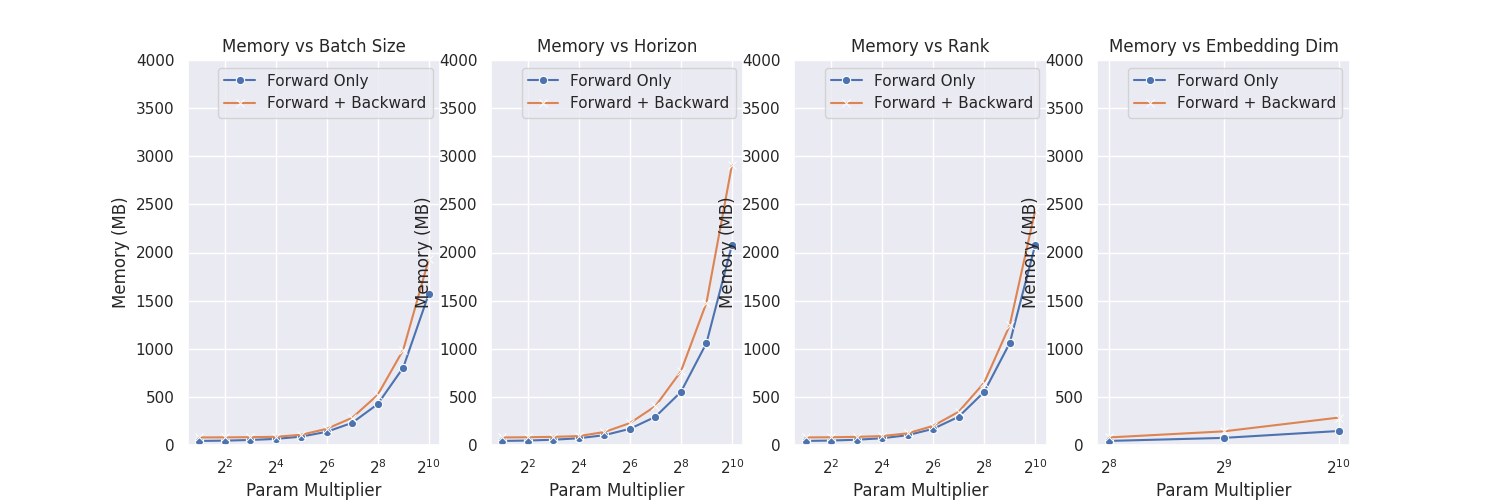
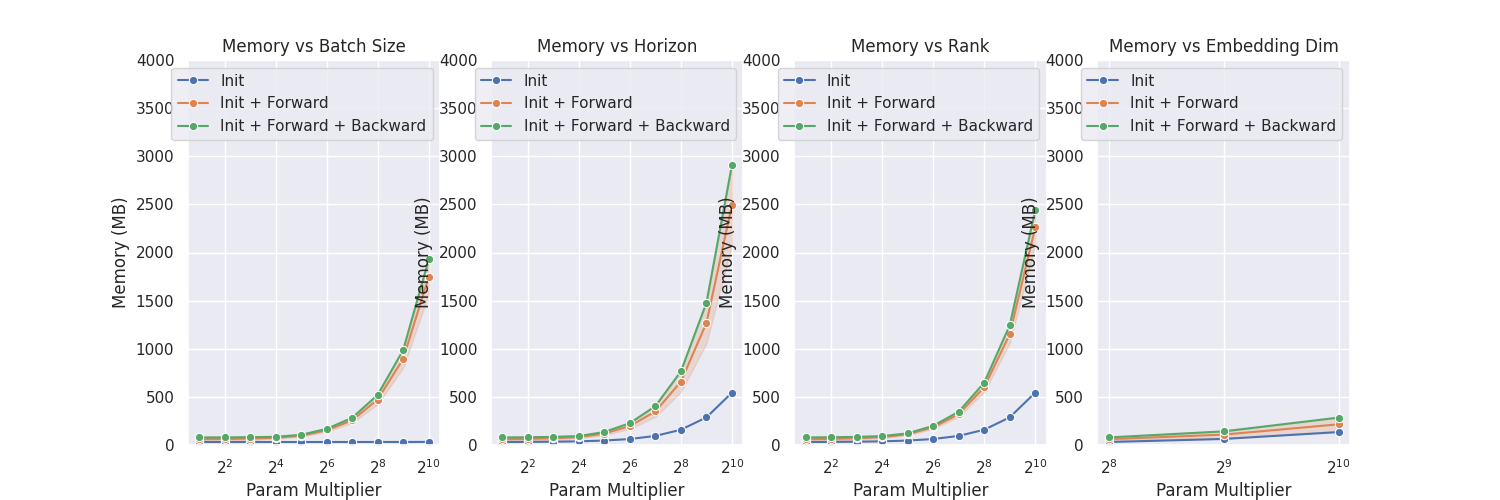
Updat mem plot

diff --git a/scripts/plot_mhead_memory.py b/scripts/plot_mhead_memory.py
@@ -1,12 +1,13 @@
 #!/usr/bin/env python3
 """Simple memory usage comparison for CP tensor functions."""
 
-import argparse
-import os
+from tqdm import tqdm
+
+import torch
 import pandas as pd
 import matplotlib.pyplot as plt
 import seaborn as sns
-import torch
+
 from tjdnet.distributions._base import BaseDistConfig
 from tjdnet.distributions.cp import CPDist
 from utils.perf import get_peak_memory_usage
@@ -22,6 +23,7 @@ def forward_pass(
     device: str = "cuda" if torch.cuda.is_available() else "cpu",
     embedding_dim=256,
     vocab_size=30000,
+    forward: bool = False,
     backward: bool = False,
 ):
     config = BaseDistConfig(
@@ -34,13 +36,13 @@ def forward_pass(
     model = CPDist(config).to(device)
     x = torch.randn(batch_size, embedding_dim, device=device)
     y = torch.randint(0, vocab_size, (batch_size, horizon), device=device)
-    loss = model(x, y)
 
-    if backward:
-        loss = loss.mean()
-        loss.backward()
+    if forward:
+        loss = model(x, y)
 
-    return loss
+        if backward:
+            loss = loss.mean()
+            loss.backward()
 
 
 def main():
@@ -50,11 +52,11 @@ def main():
         "batch_size": 2,
         "horizon": 2,
         "rank": 2,
-        "embedding_dim": 256,
+        "embedding_dim": 128,
         "vocab_size": 30000,
     }
     max_exp = 10
-    max_exp_embedding_dim = 3
+    max_exp_embedding_dim = 5
     configs = (
         [
             {**defaults, "batch_size": 2**i * defaults["batch_size"]}
@@ -73,12 +75,16 @@ def main():
     )
 
     # Add backward pass
-    configs = configs + [{**conf, "backward": True} for conf in configs]
+    configs = (
+        configs
+        + [{**conf, "forward": True} for conf in configs]
+        + [{**conf, "forward": True, "backward": True} for conf in configs]
+    )
 
     # Collect data
     data = []
     device = "cuda" if torch.cuda.is_available() else "cpu"
-    for conf in configs:
+    for conf in tqdm(configs, desc="Running forward pass"):
         memory = get_peak_memory_usage(forward_pass, device=device, **conf)
         data.append({**conf, "memory_mb": memory})
     df = pd.DataFrame(data)
@@ -95,12 +101,20 @@ def main():
             ]
 
         sns.lineplot(
-            data=df_filtered[df_filtered["backward"] != True],  # type: ignore
+            data=df_filtered[df_filtered["forward"] != True],  # type: ignore
             x=param,
             y="memory_mb",
             ax=axes[i],
             marker="o",
-            label="Forward Only",
+            label="Init",
+        )
+        sns.lineplot(
+            data=df_filtered[df_filtered["forward"] == True],  # type: ignore
+            x=param,
+            y="memory_mb",
+            ax=axes[i],
+            marker="o",
+            label="Init + Forward",
         )
         sns.lineplot(
             data=df_filtered[df_filtered["backward"] == True],  # type: ignore
@@ -108,7 +122,7 @@ def main():
             y="memory_mb",
             ax=axes[i],
             marker="o",
-            label="Forward + Backward",
+            label="Init + Forward + Backward",
         )
         axes[i].set_title(f'Memory vs {param.replace("_", " ").title()}')
         axes[i].set_ylabel("Memory (MB)")
